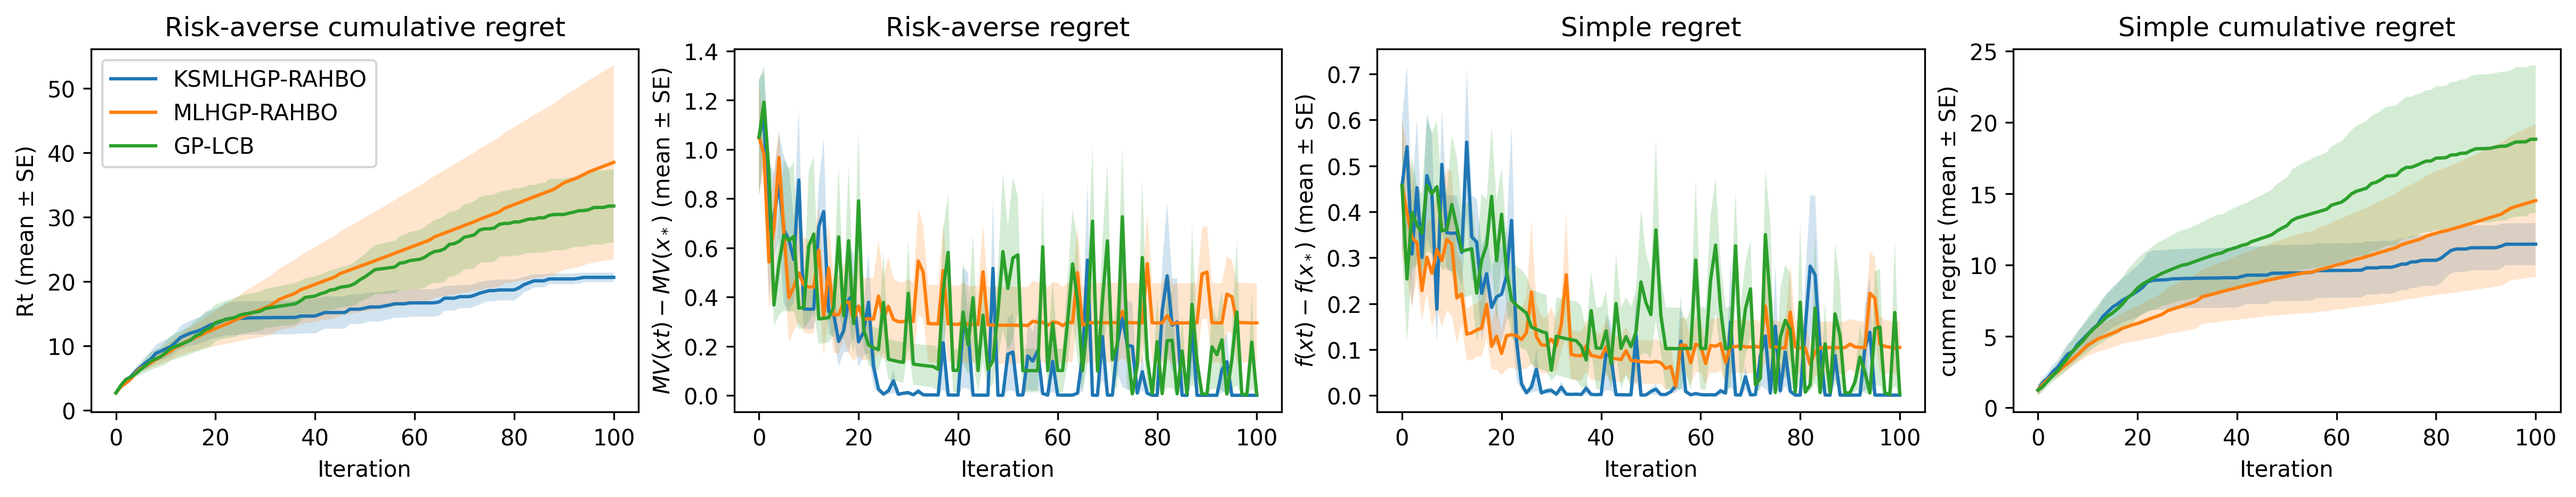
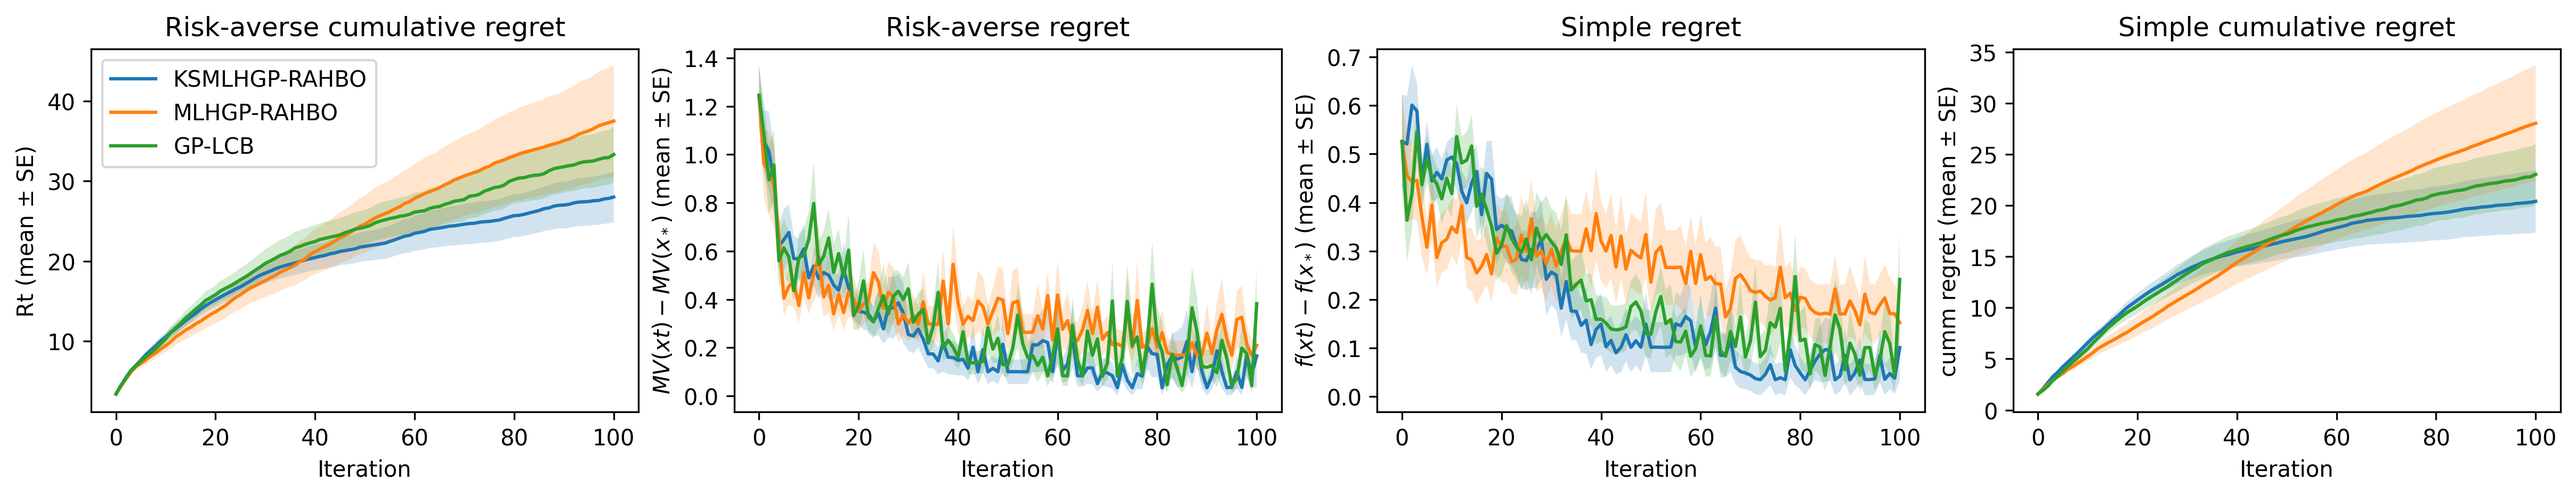
change params

diff --git a/bo_experiment_run.py b/bo_experiment_run.py
@@ -328,6 +328,8 @@ def plot_results(bo_results, true_f, save_path=None):
 
     if save_path is not None:
         fig.savefig(save_path, dpi=300, bbox_inches="tight")  # Use `fig.savefig`
+    else:
+        fig.savefig("img/RAHBO_experiments.pdf", dpi=300, bbox_inches="tight", format="pdf")
 
     plt.show()  # Show the figure
 
@@ -346,7 +348,7 @@ if __name__ == "__main__":
     parser.add_argument(
         "--output",
         type=str,
-        default="bo_results.png",
+        default="bo_results_init5.png",
         help="Path to save the output PNG file (default: bo_results.png).",
     )
     parser.add_argument(
@@ -363,7 +365,7 @@ if __name__ == "__main__":
 
     if args.result_file is None:
         bo_results = run_bo_experiments(experiment_case)
-        with open("bo_results.pkl", "wb") as f:
+        with open("bo_results_init5.pkl", "wb") as f:
             pickle.dump(bo_results, f)
     else:
         with open(args.result_file, "rb") as f:
